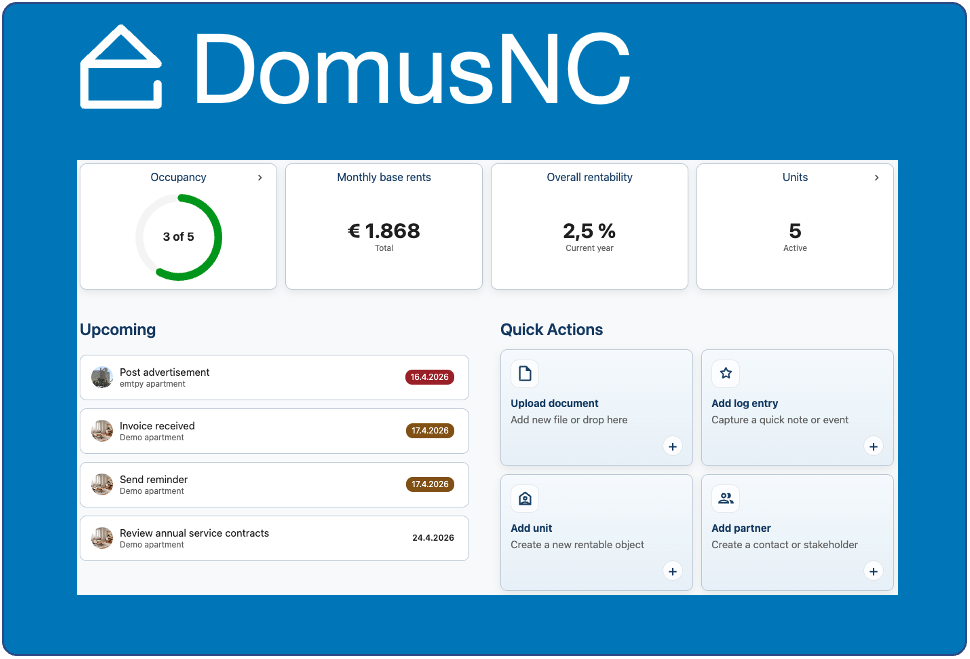
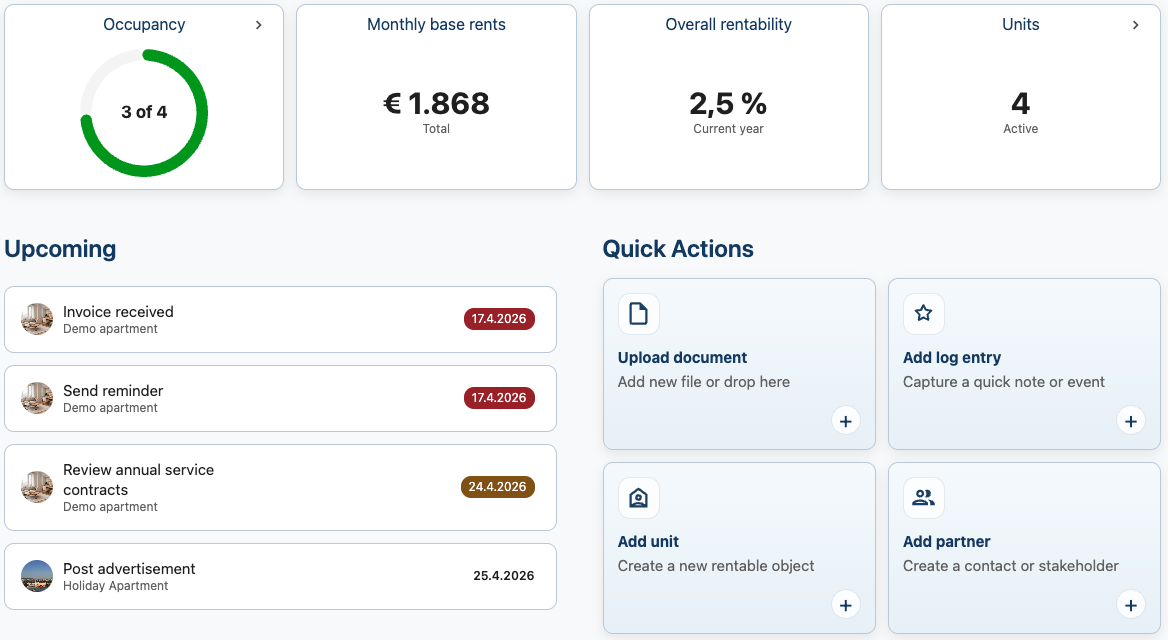
images

diff --git a/css/wizard.css b/css/wizard.css
@@ -17,7 +17,7 @@
 
 .domus-guidance-shell {
     overflow: hidden;
-    border-radius: 6px;
+    border-radius: var(--domus-border-radius);
     background: #ffffff;
     min-height: 600px;
     box-shadow: 0 28px 80px rgba(0, 0, 0, 0.28);
@@ -29,7 +29,7 @@
     justify-content: center;
     min-height: 90px;
     padding: 24px 32px;
-    background: linear-gradient(180deg, #0f78ad 0%, #0c6c9b 100%);
+    background: var(--domus-theme);
 }
 
 .domus-guidance-brand {
@@ -62,9 +62,9 @@
     width: 34px;
     height: 34px;
     border: 0;
-    border-radius: 999px;
+    border-radius: var(--domus-border-radius);
     background: transparent;
-    color: #123d63;
+    color: #ffffff;
     cursor: pointer;
 }
 
@@ -74,7 +74,7 @@
 }
 
 .domus-guidance-close:focus-visible {
-    box-shadow: 0 0 0 2px rgba(15, 120, 173, 0.28);
+    box-shadow: 0 0 0 2px rgba(18, 66, 110, 0.28);
 }
 
 .domus-guidance-close-icon {
@@ -115,10 +115,10 @@
     height: 40px;
     margin-top: -14px;
     border: 0;
-    border-radius: 12px;
+    border-radius: var(--domus-border-radius);
     background: rgba(255, 255, 255, 0.92);
     box-shadow: 0 8px 18px rgba(0, 0, 0, 0.18);
-    color: #123d63;
+    color: var(--domus-theme);
     cursor: pointer;
 }
 
@@ -193,7 +193,7 @@
     width: 48px;
     height: 48px;
     margin: 0 auto 16px;
-    color: #5f636b;
+    color: var(--domus-theme);
 }
 
 .domus-guidance-feature-icon .domus-icon {
@@ -234,6 +234,7 @@
     min-height: 260px;
     padding: 16px;
     background: linear-gradient(180deg, #2f8ccb 0%, #2c7eba 100%);
+    border-radius: var(--domus-border-radius);
     box-shadow: 0 18px 34px rgba(0, 0, 0, 0.16);
 }
 
@@ -241,6 +242,7 @@
     position: relative;
     min-height: 228px;
     border: 1px solid rgba(255, 255, 255, 0.34);
+    border-radius: var(--domus-border-radius);
     background:
         linear-gradient(90deg, rgba(255, 255, 255, 0.14) 0, rgba(255, 255, 255, 0.14) 1px, transparent 1px, transparent 25%),
         linear-gradient(rgba(255, 255, 255, 0.14) 0, rgba(255, 255, 255, 0.14) 1px, transparent 1px, transparent 25%);
@@ -292,6 +294,7 @@
     display: block;
     width: 100%;
     max-height: 300px;
+    border-radius: var(--domus-border-radius);
     object-fit: contain;
     box-shadow: 0 18px 34px rgba(0, 0, 0, 0.16);
 }
@@ -329,6 +332,15 @@
 
 .domus-guidance-detail-action {
     min-height: 40px;
+    border-radius: var(--domus-border-radius);
+}
+
+.domus-guidance-detail-action.primary,
+.domus-guidance-detail-action.primary:hover,
+.domus-guidance-detail-action.primary:focus {
+    background: var(--domus-theme);
+    border-color: var(--domus-theme);
+    color: #ffffff;
 }
 
 .domus-guidance-footer {
@@ -344,31 +356,31 @@
     display: flex;
     align-items: center;
     justify-content: center;
-    gap: 10px;
+    gap: 8px;
 }
 
 .domus-guidance-dot {
-    width: 12px;
-    height: 12px;
+    width: 8px;
+    height: 8px;
     padding: 0;
-    border: 1px solid #303845;
-    border-radius: 50%;
+    border: 1px solid var(--domus-theme);
+    border-radius: 999px;
     background: #ffffff;
     cursor: pointer;
 }
 
 .domus-guidance-dot.is-active {
-    background: #0f78ad;
-    border-color: #0f78ad;
+    background: var(--domus-theme);
+    border-color: var(--domus-theme);
 }
 
 .domus-guidance-finish {
     min-width: 180px;
     min-height: 42px;
     border: 0;
-    border-radius: 999px;
+    border-radius: var(--domus-border-radius);
     padding: 0 20px;
-    background: #0f78ad;
+    background: var(--domus-theme);
     color: #ffffff;
     font-size: 14px;
     font-weight: 600;

diff --git a/README.md b/README.md
@@ -12,11 +12,11 @@ Built for teams who want clear rental workflows without giving up the privacy an
 
 ## Preview
 <p>
-  <img src="img/pictures/dashboard.png" alt="Dashboard preview" width="300">
-  <img src="img/pictures/unitList.png" alt="Unit list preview" width="300">
-  <img src="img/pictures/unit.png" alt="Unit details preview" width="300">
-  <img src="img/pictures/tenancy.png" alt="Tenancy preview" width="300">
-  <img src="img/pictures/booking.png" alt="Booking preview" width="300">
+  <img src="screenshots/logo.png" alt="Unit list preview" width="300"><br>
+  <img src="screenshots/dashboard.png" alt="Dashboard preview" width="300">
+  <img src="screenshots/unitList.png" alt="Unit details preview" width="300">
+  <img src="screenshots/unit.png" alt="Unit details preview" width="300">
+  <img src="screenshots/revenue.png" alt="Tenancy preview" width="300">
 </p>
 
 ## Highlights